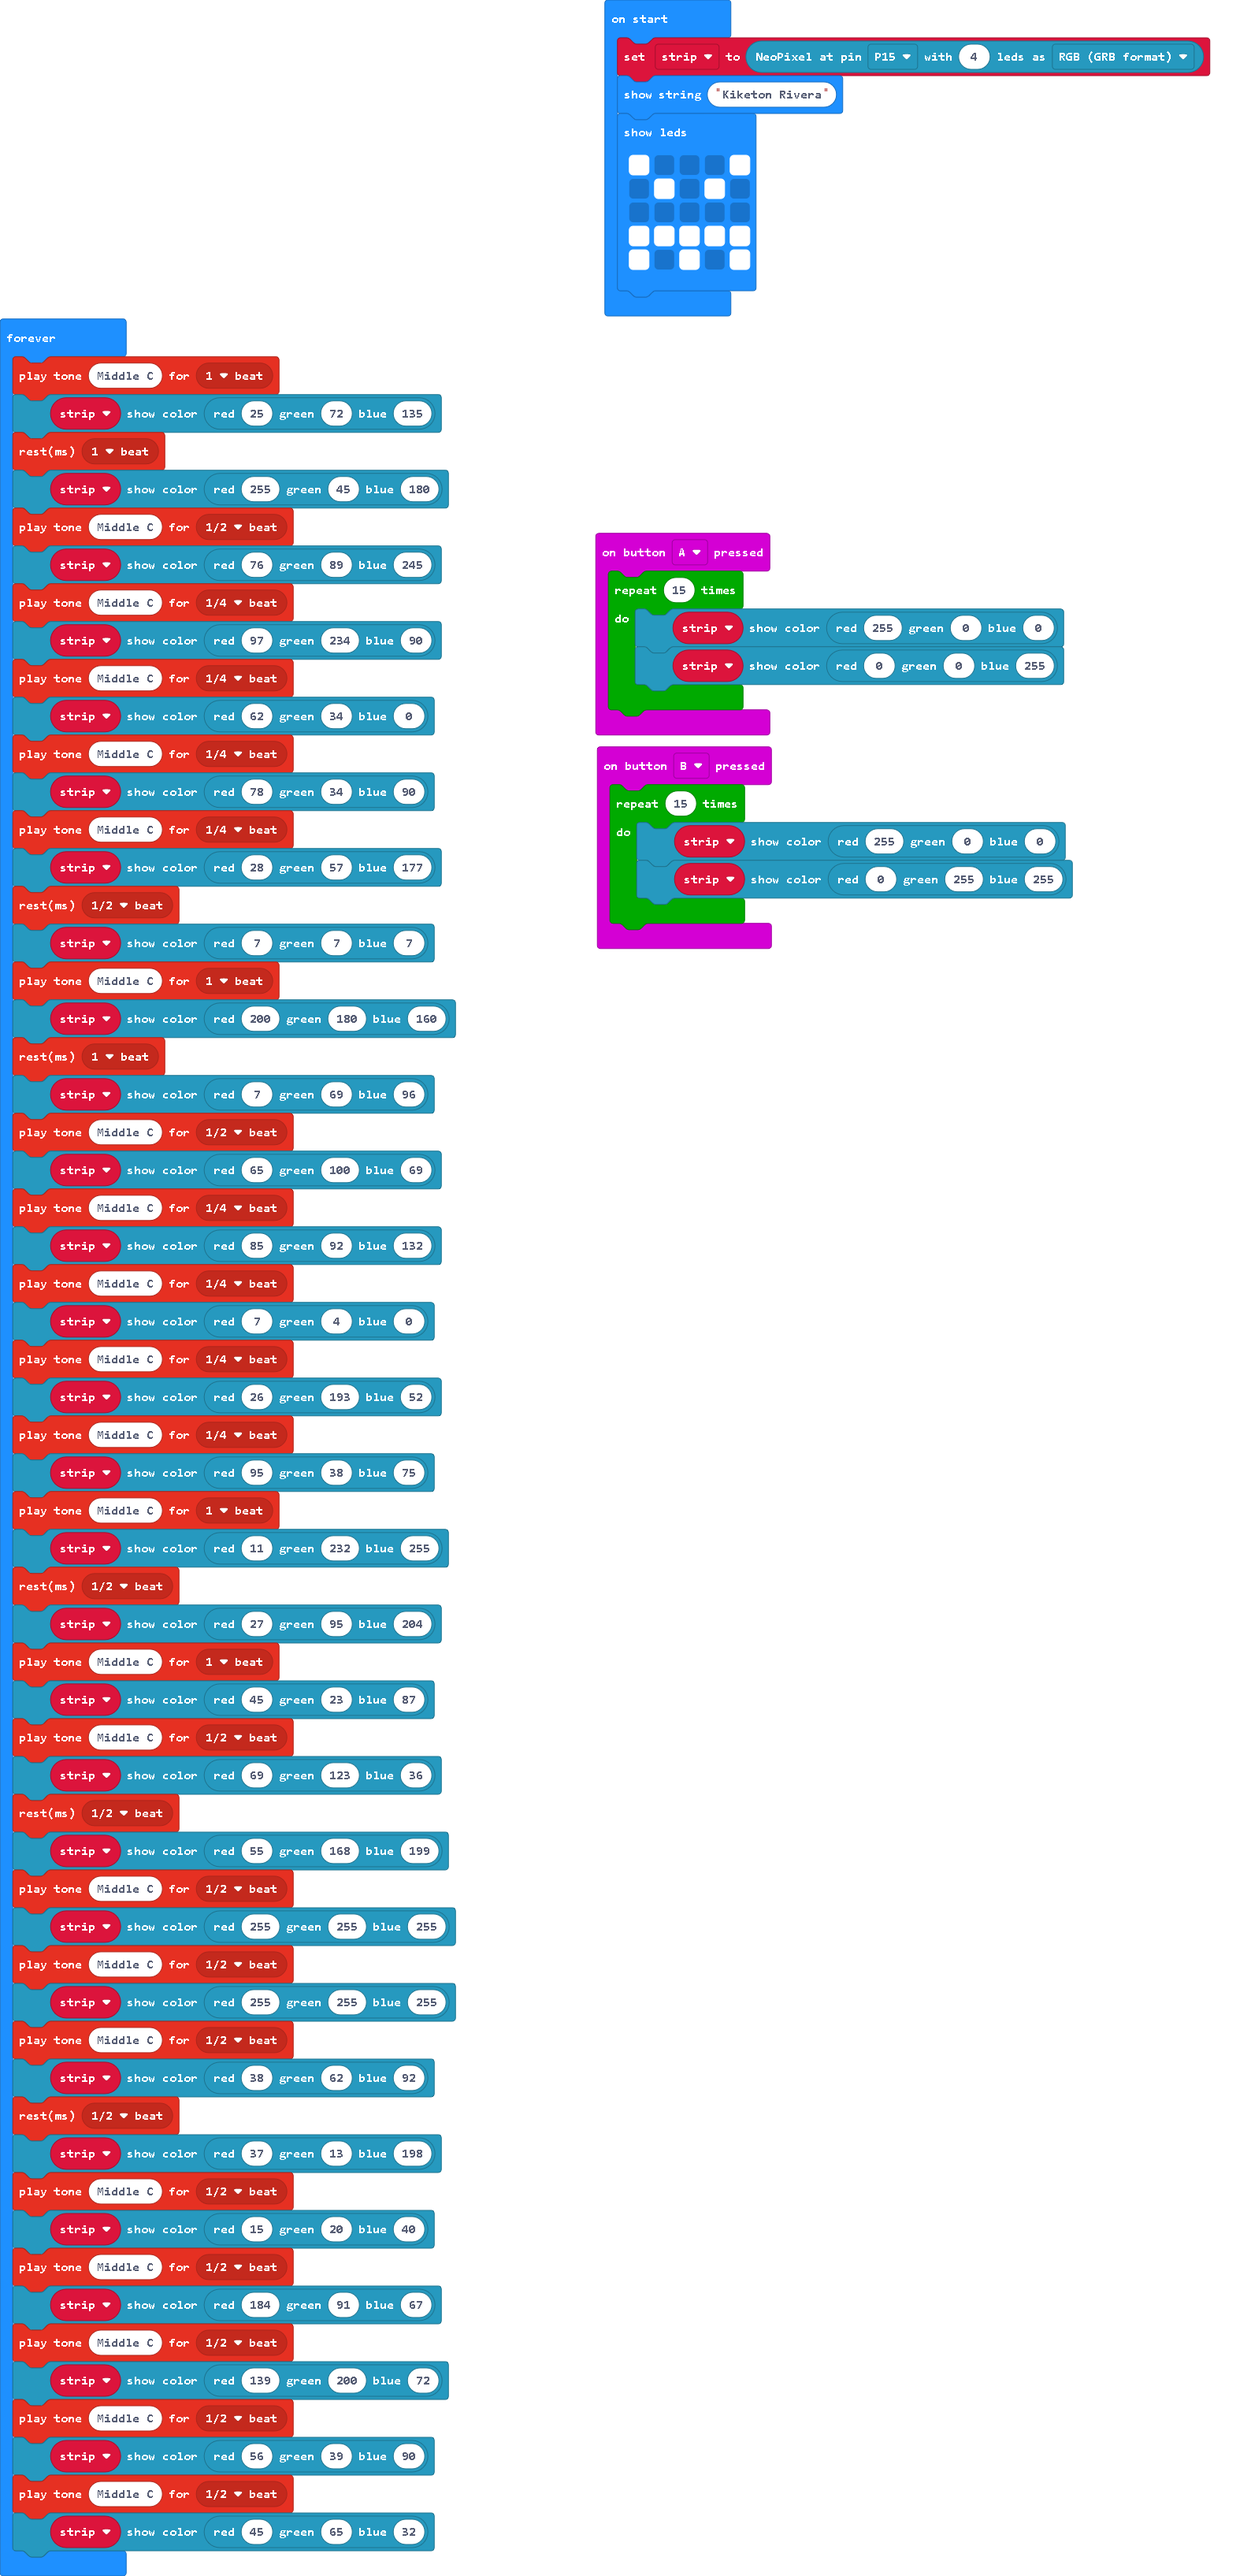
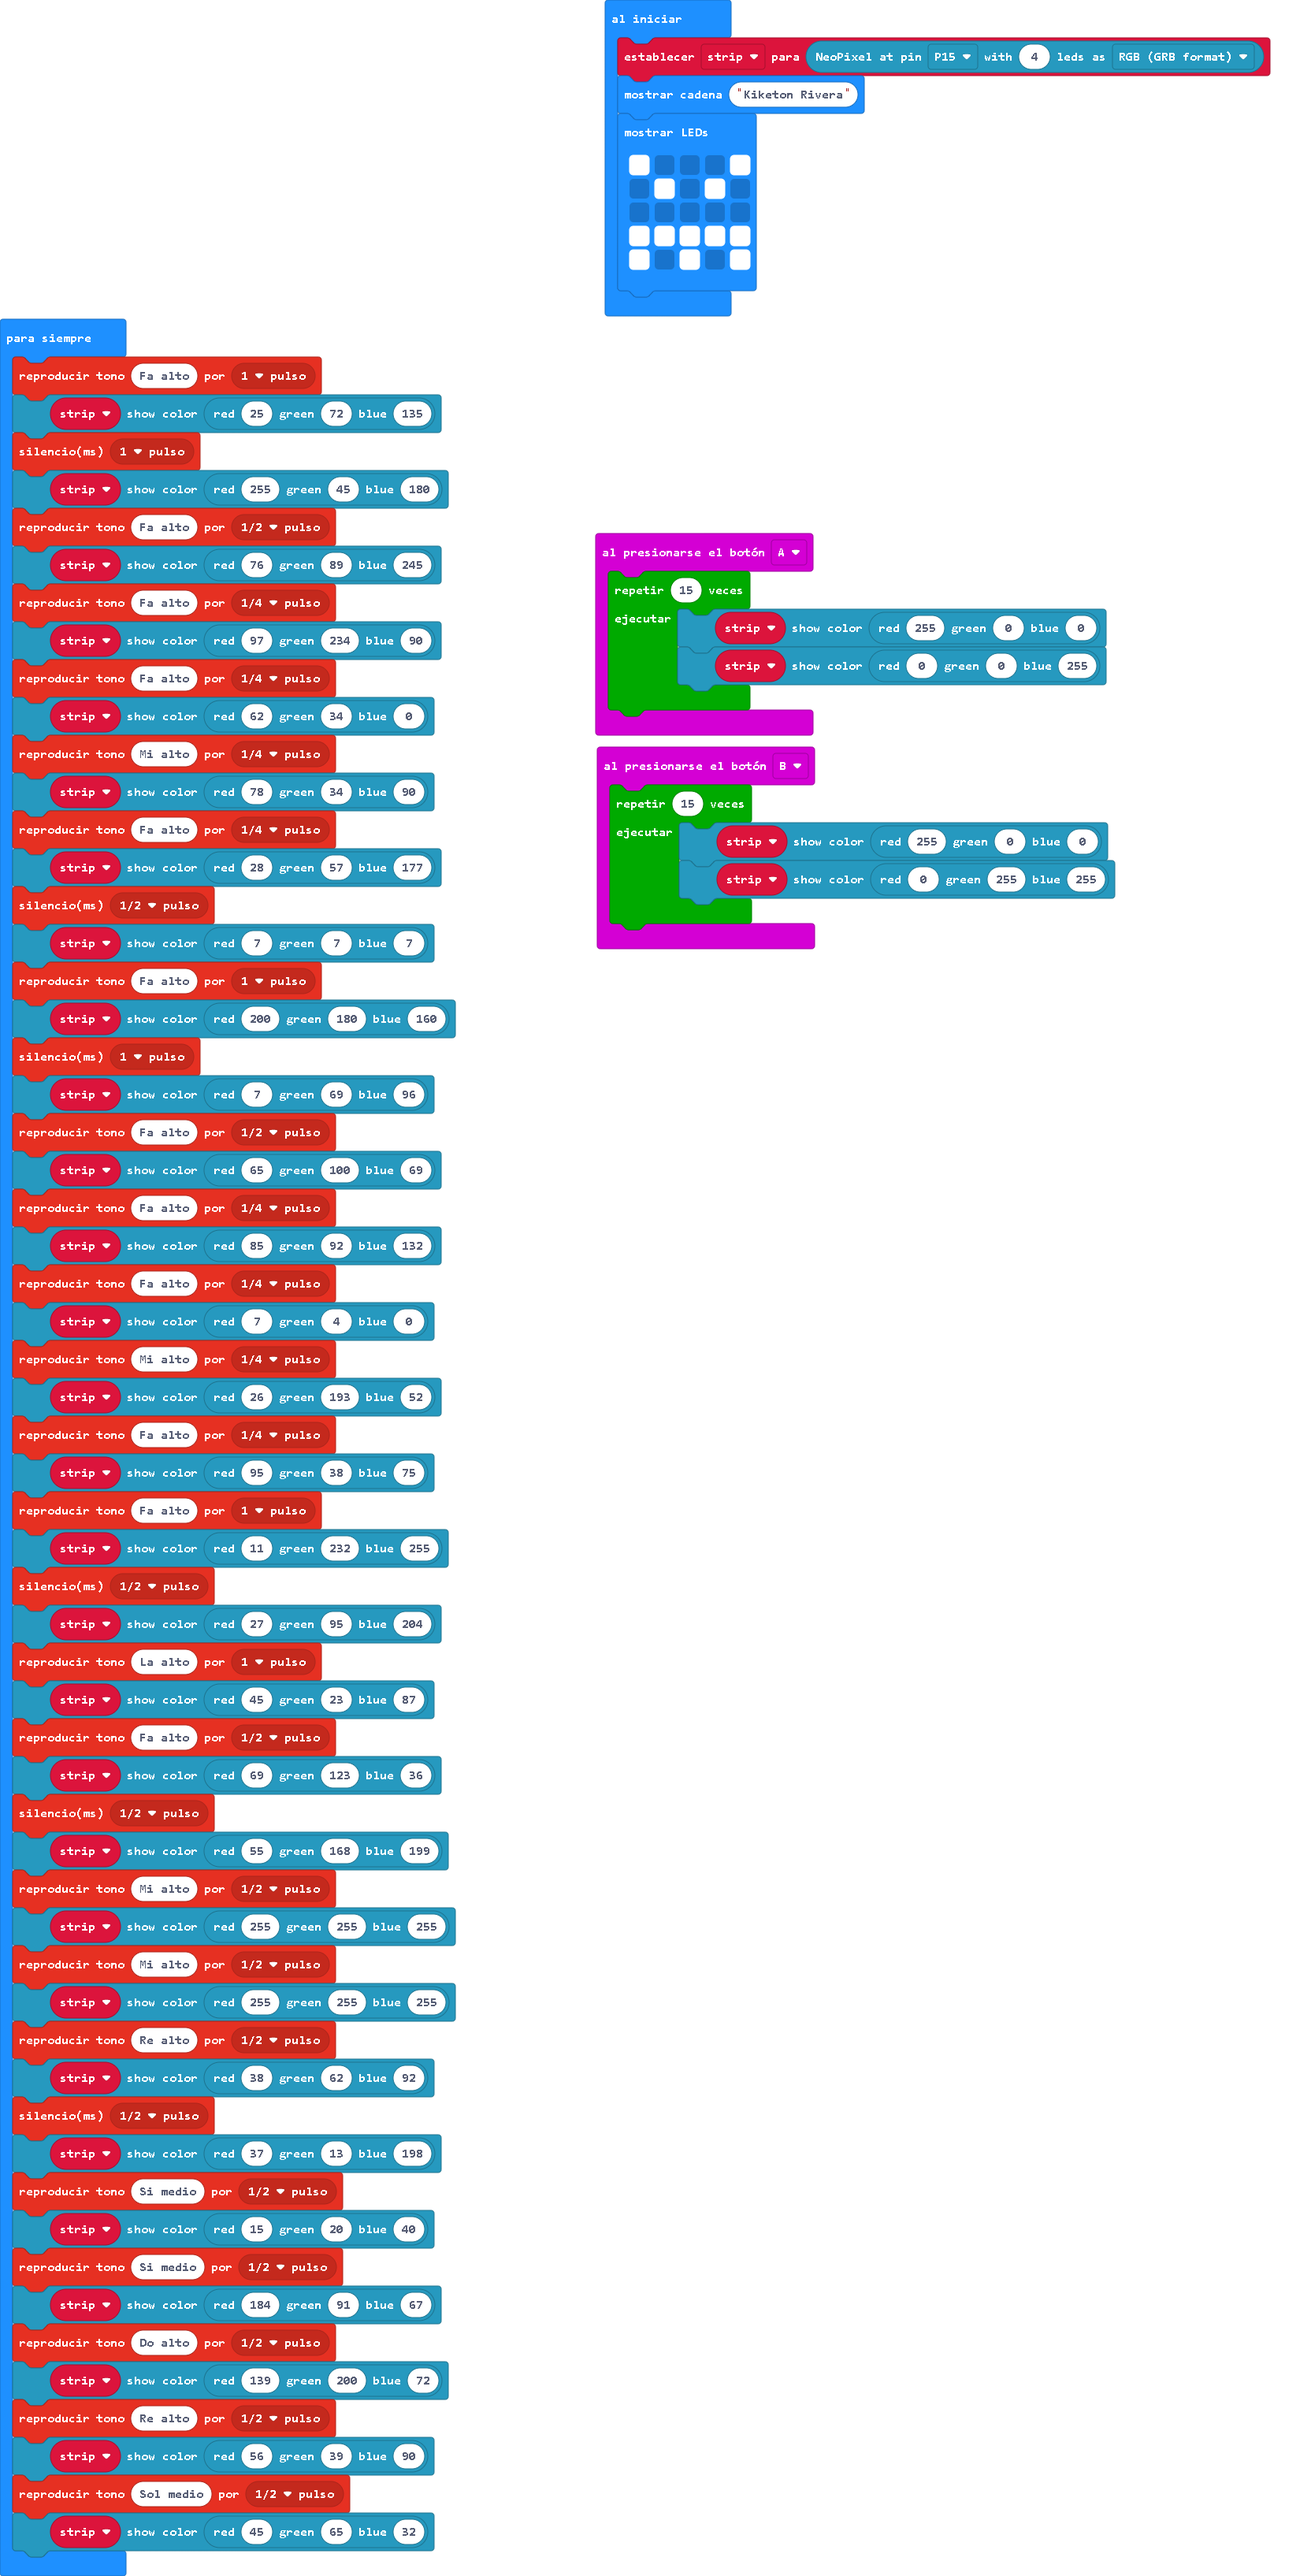
Actualizar pxt.json, main.blocks, main.ts

diff --git a/main.ts b/main.ts
@@ -21,62 +21,62 @@ basic.showLeds(`
     # . # . #
     `)
 basic.forever(function () {
-    music.playTone(262, music.beat(BeatFraction.Whole))
+    music.playTone(698, music.beat(BeatFraction.Whole))
     strip.showColor(neopixel.rgb(25, 72, 135))
     music.rest(music.beat(BeatFraction.Whole))
     strip.showColor(neopixel.rgb(255, 45, 180))
-    music.playTone(262, music.beat(BeatFraction.Half))
+    music.playTone(698, music.beat(BeatFraction.Half))
     strip.showColor(neopixel.rgb(76, 89, 245))
-    music.playTone(262, music.beat(BeatFraction.Quarter))
+    music.playTone(698, music.beat(BeatFraction.Quarter))
     strip.showColor(neopixel.rgb(97, 234, 90))
-    music.playTone(262, music.beat(BeatFraction.Quarter))
+    music.playTone(698, music.beat(BeatFraction.Quarter))
     strip.showColor(neopixel.rgb(62, 34, 0))
-    music.playTone(262, music.beat(BeatFraction.Quarter))
+    music.playTone(659, music.beat(BeatFraction.Quarter))
     strip.showColor(neopixel.rgb(78, 34, 90))
-    music.playTone(262, music.beat(BeatFraction.Quarter))
+    music.playTone(698, music.beat(BeatFraction.Quarter))
     strip.showColor(neopixel.rgb(28, 57, 177))
     music.rest(music.beat(BeatFraction.Half))
     strip.showColor(neopixel.rgb(7, 7, 7))
-    music.playTone(262, music.beat(BeatFraction.Whole))
+    music.playTone(698, music.beat(BeatFraction.Whole))
     strip.showColor(neopixel.rgb(200, 180, 160))
     music.rest(music.beat(BeatFraction.Whole))
     strip.showColor(neopixel.rgb(7, 69, 96))
-    music.playTone(262, music.beat(BeatFraction.Half))
+    music.playTone(698, music.beat(BeatFraction.Half))
     strip.showColor(neopixel.rgb(65, 100, 69))
-    music.playTone(262, music.beat(BeatFraction.Quarter))
+    music.playTone(698, music.beat(BeatFraction.Quarter))
     strip.showColor(neopixel.rgb(85, 92, 132))
-    music.playTone(262, music.beat(BeatFraction.Quarter))
+    music.playTone(698, music.beat(BeatFraction.Quarter))
     strip.showColor(neopixel.rgb(7, 4, 0))
-    music.playTone(262, music.beat(BeatFraction.Quarter))
+    music.playTone(659, music.beat(BeatFraction.Quarter))
     strip.showColor(neopixel.rgb(26, 193, 52))
-    music.playTone(262, music.beat(BeatFraction.Quarter))
+    music.playTone(698, music.beat(BeatFraction.Quarter))
     strip.showColor(neopixel.rgb(95, 38, 75))
-    music.playTone(262, music.beat(BeatFraction.Whole))
+    music.playTone(698, music.beat(BeatFraction.Whole))
     strip.showColor(neopixel.rgb(11, 232, 255))
     music.rest(music.beat(BeatFraction.Half))
     strip.showColor(neopixel.rgb(27, 95, 204))
-    music.playTone(262, music.beat(BeatFraction.Whole))
+    music.playTone(880, music.beat(BeatFraction.Whole))
     strip.showColor(neopixel.rgb(45, 23, 87))
-    music.playTone(262, music.beat(BeatFraction.Half))
+    music.playTone(698, music.beat(BeatFraction.Half))
     strip.showColor(neopixel.rgb(69, 123, 36))
     music.rest(music.beat(BeatFraction.Half))
     strip.showColor(neopixel.rgb(55, 168, 199))
-    music.playTone(262, music.beat(BeatFraction.Half))
+    music.playTone(659, music.beat(BeatFraction.Half))
     strip.showColor(neopixel.rgb(255, 255, 255))
-    music.playTone(262, music.beat(BeatFraction.Half))
+    music.playTone(659, music.beat(BeatFraction.Half))
     strip.showColor(neopixel.rgb(255, 255, 255))
-    music.playTone(262, music.beat(BeatFraction.Half))
+    music.playTone(587, music.beat(BeatFraction.Half))
     strip.showColor(neopixel.rgb(38, 62, 92))
     music.rest(music.beat(BeatFraction.Half))
     strip.showColor(neopixel.rgb(37, 13, 198))
-    music.playTone(262, music.beat(BeatFraction.Half))
+    music.playTone(494, music.beat(BeatFraction.Half))
     strip.showColor(neopixel.rgb(15, 20, 40))
-    music.playTone(262, music.beat(BeatFraction.Half))
+    music.playTone(494, music.beat(BeatFraction.Half))
     strip.showColor(neopixel.rgb(184, 91, 67))
-    music.playTone(262, music.beat(BeatFraction.Half))
+    music.playTone(523, music.beat(BeatFraction.Half))
     strip.showColor(neopixel.rgb(139, 200, 72))
-    music.playTone(262, music.beat(BeatFraction.Half))
+    music.playTone(587, music.beat(BeatFraction.Half))
     strip.showColor(neopixel.rgb(56, 39, 90))
-    music.playTone(262, music.beat(BeatFraction.Half))
+    music.playTone(392, music.beat(BeatFraction.Half))
     strip.showColor(neopixel.rgb(45, 65, 32))
 })
